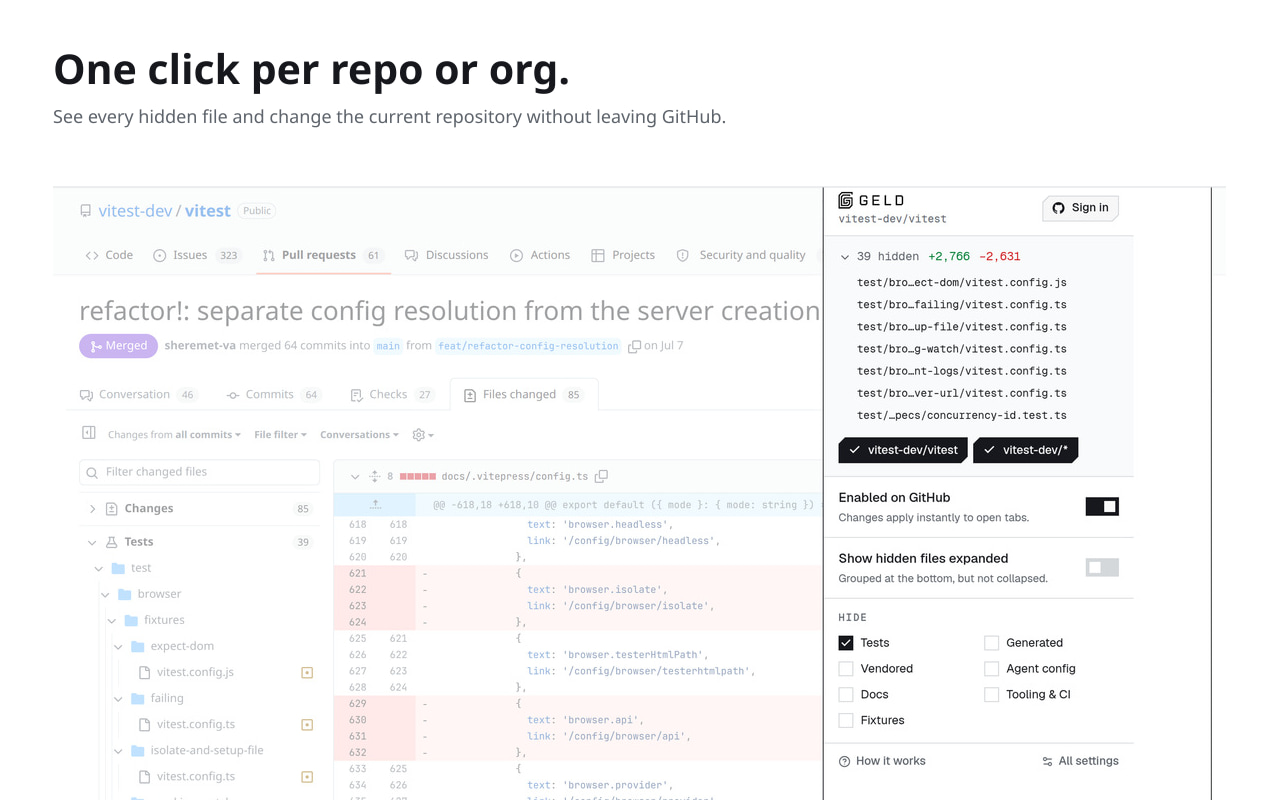
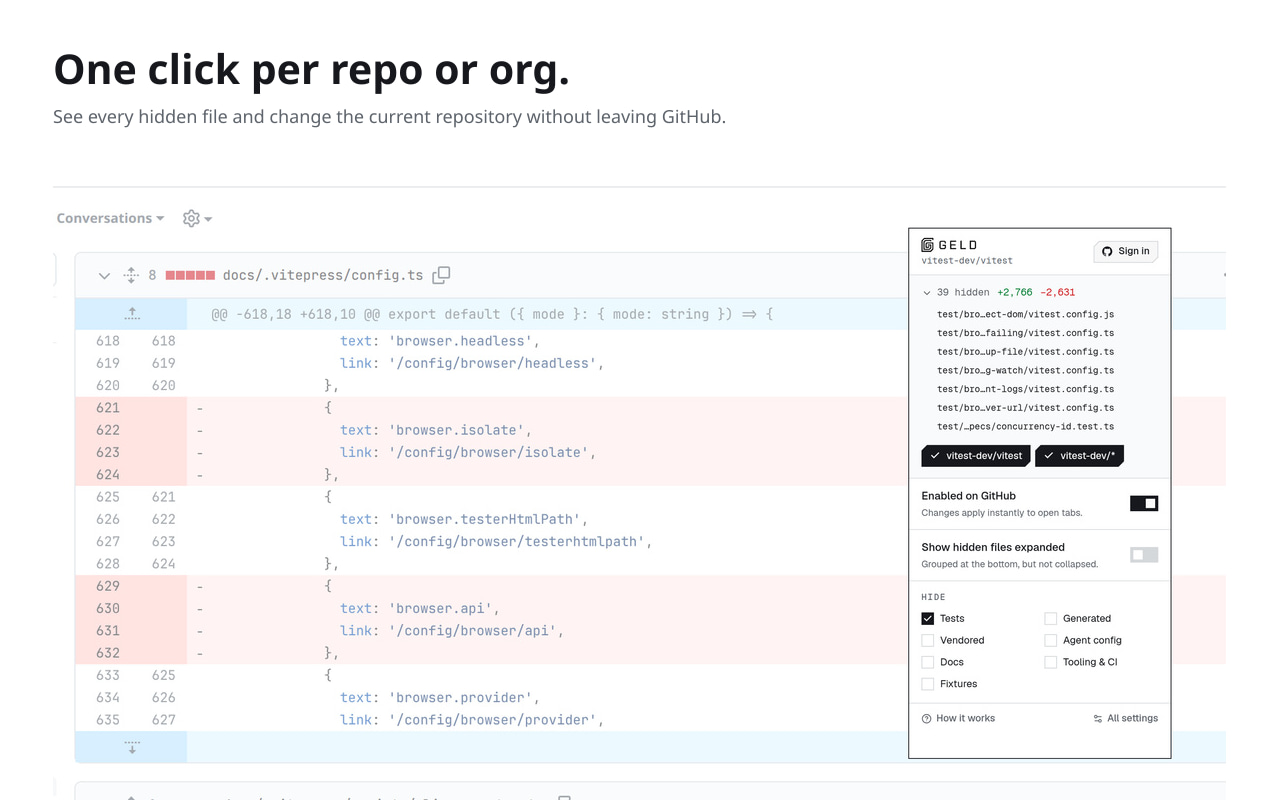
Rebuild store graphics as crisp artifact-free compositions
Replace generated UI details with deterministic vector geometry: exact grid
spacing, flat colour blocks, canonical SVG logos, centred CTA type and fully
visible marquee counts. Regenerate the three image studies with stricter
artifact prompts, but keep them only as raw visual exploration so model
errors cannot reach the upload files.

Tighten the real popup to its 336px content width, remove the blank strip and
use a clean diff-only backdrop. Re-render both screenshot sizes from the same
sources at higher quality, preserving full text and eliminating awkward
partial crops.

diff --git a/apps/extension/store/assets/README.md b/apps/extension/store/assets/README.md
@@ -1,6 +1,6 @@
 # Store asset pack
 
-Finished, exact-size exports for the marketplace forms. The real Geld SVGs are composited over generated editorial source art; all product screens are captures of the built extension running on public GitHub pages, not generated UI.
+Finished, exact-size exports for the marketplace forms. The real Geld SVGs are used throughout; all product screens are captures of the built extension running on public GitHub pages, not generated UI. Image generation was used for the visual exploration stored under `raw/ai-*`; the upload-ready promo diagrams were then rebuilt as exact flat vector geometry so generated overlaps, gradients, clipped fragments and text-placement errors cannot survive into the submitted files.
 
 ## Upload map
 
@@ -23,7 +23,7 @@ Chrome/Edge/Firefox screenshots are 1280×800 JPEG. Their Mac App Store equivale
 
 ## Provenance
 
-- `raw/ai-*-source.png`: generated abstract diff fields. They contain no product text or generated logos; the exact words and logo SVGs were added in the final render.
+- `raw/ai-*-source.png`: revised generated abstract diff studies. They contain no product text or generated logos. The final promo diagrams use the same direction but deterministic, pixel-aligned vectors.
 - `raw/02-counts-tooltip.png`, `03-file-tree.png`, `06-pr-list.png`: Chrome captures from the built Geld 0.1.1 extension on public GitHub pages.
 - `raw/04-popup.png`: the real browser-action popup reading the active GitHub tab.
 - `raw/05-options.png`: the built extension's options page.
